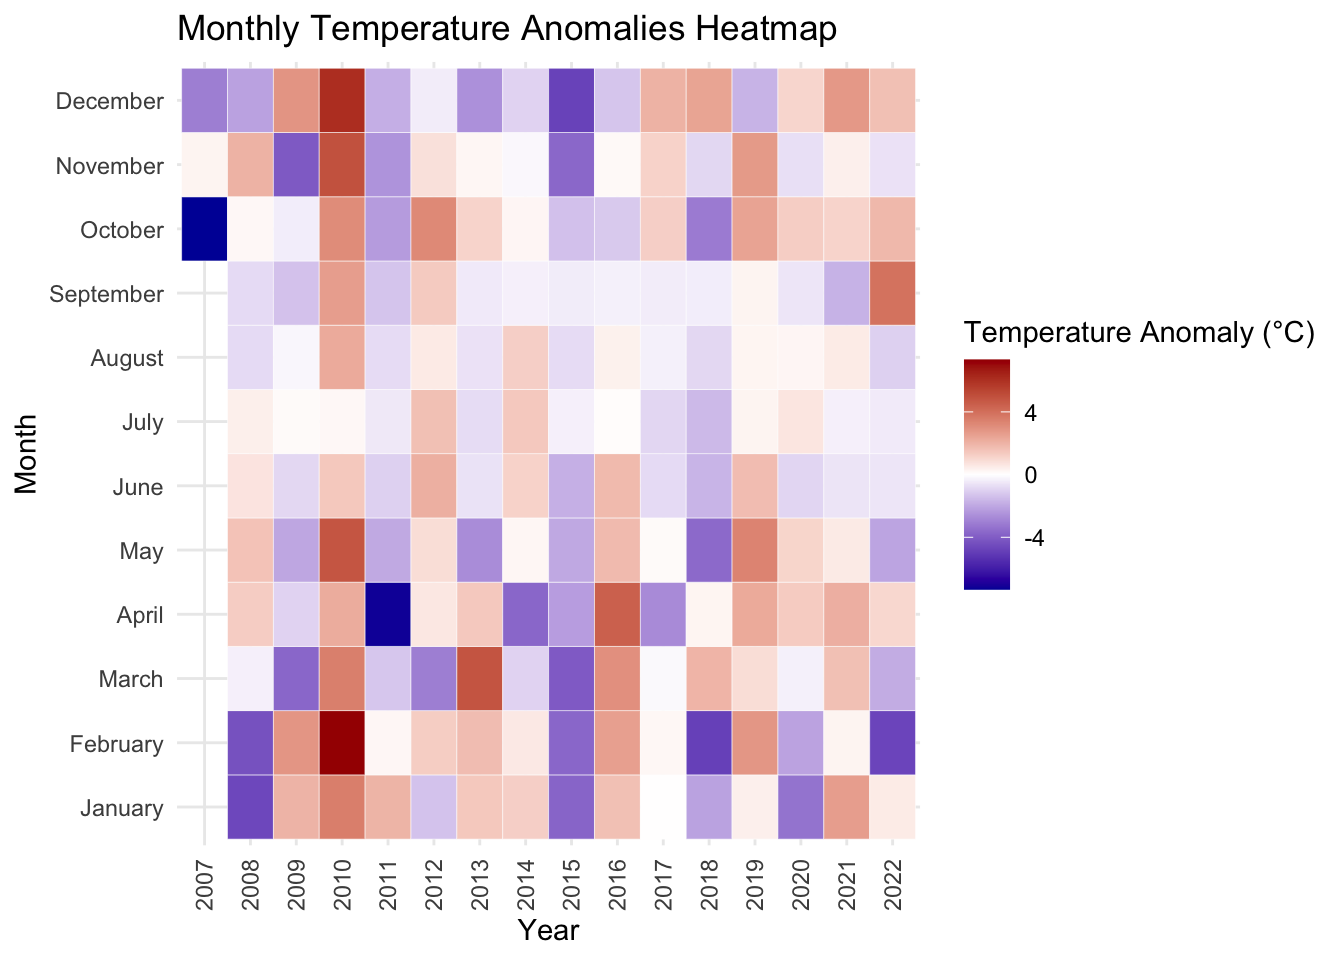
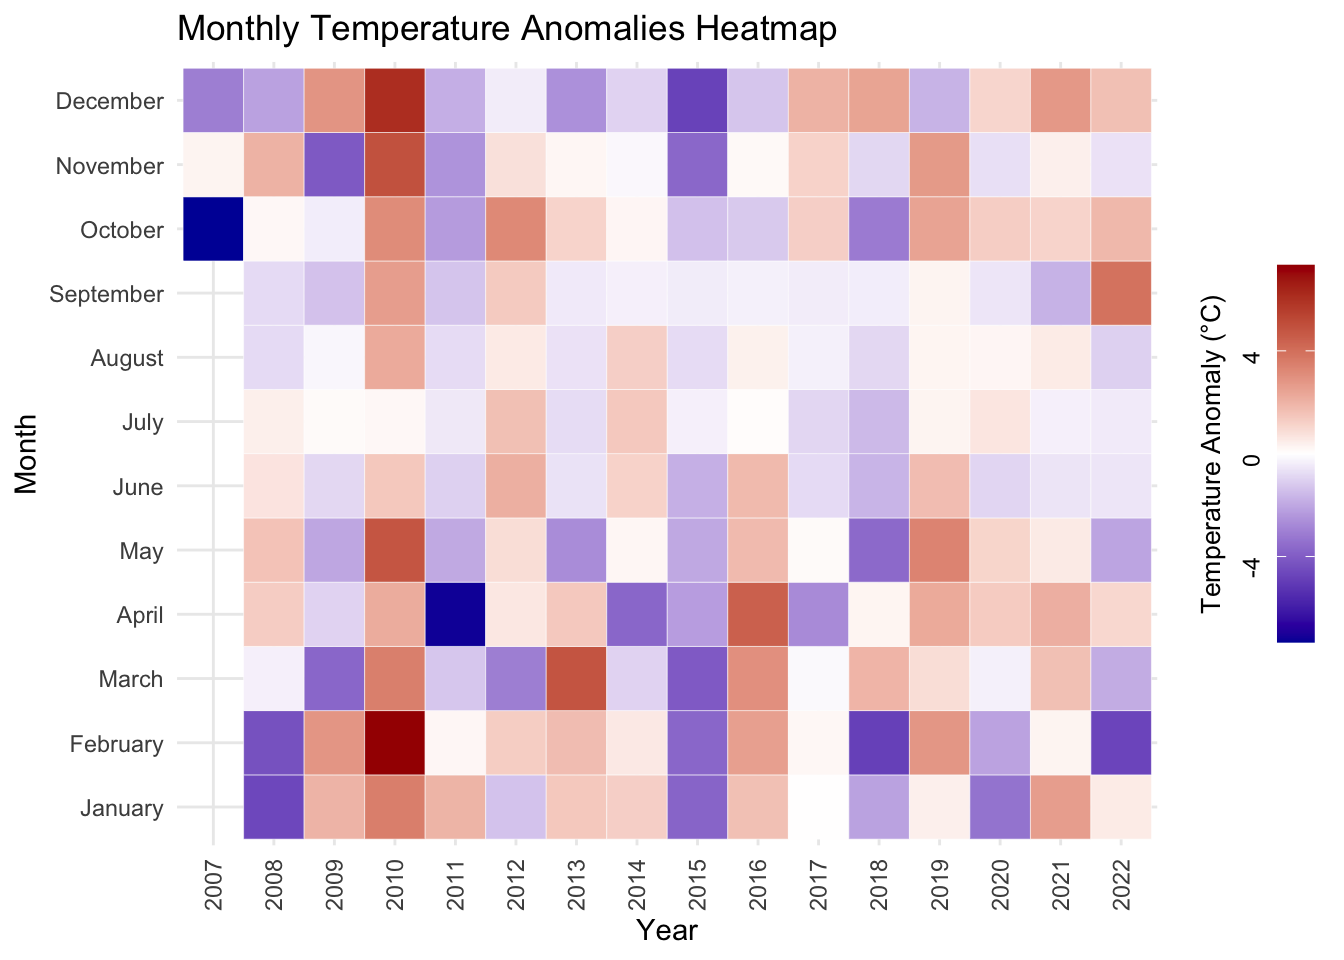
fixing anomaly plots to use the correct data

diff --git a/kangerluasunnguaq_climate.html b/kangerluasunnguaq_climate.html
@@ -240,7 +240,7 @@ Figure&nbsp;2: Mean air temperature (°C) pr month, based on data from 2007 to 2
 <span id="cb9-3"><a href="#cb9-3" aria-hidden="true" tabindex="-1"></a>  <span class="fu">geom_point</span>()<span class="sc">+</span></span>
 <span id="cb9-4"><a href="#cb9-4" aria-hidden="true" tabindex="-1"></a>  <span class="fu">scale_x_continuous</span>(<span class="at">breaks=</span><span class="fu">seq</span>(<span class="fu">min</span>(data_temp_monthly_mean_summer<span class="sc">$</span>year), <span class="fu">max</span>(data_temp_monthly_mean_summer<span class="sc">$</span>year), <span class="at">by =</span> <span class="dv">1</span>))<span class="sc">+</span></span>
 <span id="cb9-5"><a href="#cb9-5" aria-hidden="true" tabindex="-1"></a>  <span class="co">#geom_hline(yintercept=year_mean, linetype="dashed", color = "blue", size=0.5)+</span></span>
-<span id="cb9-6"><a href="#cb9-6" aria-hidden="true" tabindex="-1"></a>  <span class="fu">labs</span>(<span class="at">x =</span> <span class="st">"Month"</span>, <span class="at">y =</span> <span class="st">"Mean temperature (°C)"</span>, <span class="at">title =</span> <span class="st">"Mean temperature pr month"</span>)</span></code><button title="Copy to Clipboard" class="code-copy-button"><i class="bi"></i></button></pre></div>
+<span id="cb9-6"><a href="#cb9-6" aria-hidden="true" tabindex="-1"></a>  <span class="fu">labs</span>(<span class="at">x =</span> <span class="st">"Month"</span>, <span class="at">y =</span> <span class="st">"Mean temperature (°C)"</span>, <span class="at">title =</span> <span class="st">"Mean temperature pr summer month"</span>)</span></code><button title="Copy to Clipboard" class="code-copy-button"><i class="bi"></i></button></pre></div>
 <div class="cell-output-display">
 <div id="fig-month-summer-mean-temp" class="quarto-float quarto-figure quarto-figure-center anchored">
 <figure class="quarto-float quarto-float-fig figure">
@@ -316,7 +316,7 @@ Figure&nbsp;4: Mean yearly precipitation (mm) from 2008 to 2022. Data from 2007 
 <div class="cell">
 <div class="sourceCode cell-code" id="cb15"><pre class="sourceCode r code-with-copy"><code class="sourceCode r"><span id="cb15-1"><a href="#cb15-1" aria-hidden="true" tabindex="-1"></a><span class="fu">ggplot</span>(data_precip_month_mean, <span class="fu">aes</span>(<span class="at">y =</span> pre_mm_mean, <span class="at">x =</span> month))<span class="sc">+</span></span>
 <span id="cb15-2"><a href="#cb15-2" aria-hidden="true" tabindex="-1"></a>  <span class="fu">geom_smooth</span>(<span class="at">color =</span> <span class="st">"blue"</span>, <span class="at">se =</span> F)<span class="sc">+</span></span>
-<span id="cb15-3"><a href="#cb15-3" aria-hidden="true" tabindex="-1"></a>  <span class="fu">geom_bar</span>(<span class="at">stat =</span> <span class="st">"identity"</span>, <span class="at">fill =</span> <span class="st">"#6e6bc4"</span>)<span class="sc">+</span></span>
+<span id="cb15-3"><a href="#cb15-3" aria-hidden="true" tabindex="-1"></a>  <span class="fu">geom_bar</span>(<span class="at">stat =</span> <span class="st">"identity"</span>, <span class="at">fill =</span> <span class="st">"#6e6bc4"</span>, <span class="at">alpha =</span> <span class="fl">0.95</span>)<span class="sc">+</span></span>
 <span id="cb15-4"><a href="#cb15-4" aria-hidden="true" tabindex="-1"></a>  <span class="fu">scale_x_continuous</span>(<span class="at">breaks=</span><span class="fu">seq</span>(<span class="fu">min</span>(data_precip_month_mean<span class="sc">$</span>month), <span class="fu">max</span>(data_precip_month_mean<span class="sc">$</span>month), <span class="at">by =</span> <span class="dv">1</span>))<span class="sc">+</span></span>
 <span id="cb15-5"><a href="#cb15-5" aria-hidden="true" tabindex="-1"></a><span class="fu">geom_hline</span>(<span class="at">yintercept =</span> precip_month_mean, <span class="at">linetype=</span><span class="st">"dashed"</span>, <span class="at">color =</span> <span class="st">"blue"</span>, <span class="at">linewidth =</span><span class="fl">0.25</span>)</span></code><button title="Copy to Clipboard" class="code-copy-button"><i class="bi"></i></button></pre></div>
 <div class="cell-output-display">
@@ -478,11 +478,20 @@ Figure&nbsp;7: CAPTION
 <span id="cb31-3"><a href="#cb31-3" aria-hidden="true" tabindex="-1"></a>  <span class="fu">scale_fill_gradient2</span>(<span class="at">low =</span> <span class="st">"orange"</span>, <span class="at">high =</span> rain, <span class="at">mid =</span> <span class="st">"white"</span>, </span>
 <span id="cb31-4"><a href="#cb31-4" aria-hidden="true" tabindex="-1"></a>                       <span class="at">midpoint =</span> <span class="dv">0</span>, <span class="at">limit =</span> <span class="fu">c</span>(<span class="sc">-</span><span class="fu">max</span>(<span class="fu">abs</span>(monthly_prep_anomalies<span class="sc">$</span>prep_anomaly)), </span>
 <span id="cb31-5"><a href="#cb31-5" aria-hidden="true" tabindex="-1"></a>                                               <span class="fu">max</span>(<span class="fu">abs</span>(monthly_prep_anomalies<span class="sc">$</span>prep_anomaly))),</span>
-<span id="cb31-6"><a href="#cb31-6" aria-hidden="true" tabindex="-1"></a>                       <span class="at">space =</span> <span class="st">"Lab"</span>, <span class="at">name=</span><span class="st">"Precipitation</span><span class="sc">\n</span><span class="st">Anomaly (mm)"</span>) <span class="sc">+</span></span>
+<span id="cb31-6"><a href="#cb31-6" aria-hidden="true" tabindex="-1"></a>                       <span class="at">space =</span> <span class="st">"Lab"</span>, <span class="at">name=</span><span class="st">"Precipitation Anomaly (mm)"</span>) <span class="sc">+</span></span>
 <span id="cb31-7"><a href="#cb31-7" aria-hidden="true" tabindex="-1"></a>  <span class="fu">labs</span>(<span class="at">x =</span> <span class="st">"Year"</span>, <span class="at">y =</span> <span class="st">"Month"</span>, <span class="at">title =</span> <span class="st">"Monthly Precipitation Anomalies Heatmap"</span>) <span class="sc">+</span></span>
 <span id="cb31-8"><a href="#cb31-8" aria-hidden="true" tabindex="-1"></a>  <span class="fu">scale_y_discrete</span>(<span class="at">labels =</span> month.name) <span class="sc">+</span> <span class="co"># Use full month names on y-axis</span></span>
 <span id="cb31-9"><a href="#cb31-9" aria-hidden="true" tabindex="-1"></a>  <span class="fu">theme_minimal</span>() <span class="sc">+</span></span>
-<span id="cb31-10"><a href="#cb31-10" aria-hidden="true" tabindex="-1"></a>  <span class="fu">theme</span>(<span class="at">axis.text.x =</span> <span class="fu">element_text</span>(<span class="at">angle =</span> <span class="dv">90</span>, <span class="at">vjust =</span> <span class="fl">0.5</span>, <span class="at">hjust=</span><span class="dv">1</span>))</span></code><button title="Copy to Clipboard" class="code-copy-button"><i class="bi"></i></button></pre></div>
+<span id="cb31-10"><a href="#cb31-10" aria-hidden="true" tabindex="-1"></a>  <span class="fu">theme</span>(</span>
+<span id="cb31-11"><a href="#cb31-11" aria-hidden="true" tabindex="-1"></a>    <span class="at">axis.text.x =</span> <span class="fu">element_text</span>(<span class="at">angle =</span> <span class="dv">90</span>, <span class="at">vjust =</span> <span class="fl">0.5</span>, <span class="at">hjust =</span> <span class="dv">1</span>),</span>
+<span id="cb31-12"><a href="#cb31-12" aria-hidden="true" tabindex="-1"></a>    <span class="at">legend.position =</span> <span class="st">"right"</span>,</span>
+<span id="cb31-13"><a href="#cb31-13" aria-hidden="true" tabindex="-1"></a>    <span class="at">legend.direction =</span> <span class="st">"vertical"</span>,</span>
+<span id="cb31-14"><a href="#cb31-14" aria-hidden="true" tabindex="-1"></a>    <span class="at">legend.title =</span> <span class="fu">element_text</span>(<span class="at">angle =</span> <span class="dv">90</span>, <span class="at">hjust =</span> <span class="fl">0.5</span>, <span class="at">vjust =</span> <span class="dv">1</span>, <span class="at">size =</span> <span class="dv">10</span>),</span>
+<span id="cb31-15"><a href="#cb31-15" aria-hidden="true" tabindex="-1"></a>    <span class="at">legend.text =</span> <span class="fu">element_text</span>(<span class="at">angle =</span> <span class="dv">90</span>, <span class="at">hjust =</span> <span class="dv">1</span>),</span>
+<span id="cb31-16"><a href="#cb31-16" aria-hidden="true" tabindex="-1"></a>    <span class="at">legend.key.height =</span> <span class="fu">unit</span>(<span class="dv">1</span>, <span class="st">"cm"</span>),</span>
+<span id="cb31-17"><a href="#cb31-17" aria-hidden="true" tabindex="-1"></a>    <span class="at">legend.key.width =</span> <span class="fu">unit</span>(<span class="fl">0.5</span>, <span class="st">"cm"</span>),</span>
+<span id="cb31-18"><a href="#cb31-18" aria-hidden="true" tabindex="-1"></a>    <span class="at">legend.box.just =</span> <span class="st">"bottom"</span>) <span class="sc">+</span></span>
+<span id="cb31-19"><a href="#cb31-19" aria-hidden="true" tabindex="-1"></a> <span class="fu">guides</span>(<span class="at">fill =</span> <span class="fu">guide_colorbar</span>(<span class="at">title.position =</span> <span class="st">"left"</span>, <span class="at">label.position =</span> <span class="st">"left"</span>))</span></code><button title="Copy to Clipboard" class="code-copy-button"><i class="bi"></i></button></pre></div>
 <div class="cell-output-display">
 <div id="fig-monthly-prep-anomaly" class="quarto-float quarto-figure quarto-figure-center anchored">
 <figure class="quarto-float quarto-float-fig figure">
@@ -542,21 +551,42 @@ Figure&nbsp;9: CAPTION
 <span id="cb37-3"><a href="#cb37-3" aria-hidden="true" tabindex="-1"></a>  <span class="fu">summarise</span>(<span class="at">overall_monthly_mean =</span> <span class="fu">mean</span>(monthly_mean, <span class="at">na.rm =</span> <span class="cn">TRUE</span>)) <span class="sc">|&gt;</span> </span>
 <span id="cb37-4"><a href="#cb37-4" aria-hidden="true" tabindex="-1"></a>  <span class="fu">ungroup</span>()</span>
 <span id="cb37-5"><a href="#cb37-5" aria-hidden="true" tabindex="-1"></a></span>
-<span id="cb37-6"><a href="#cb37-6" aria-hidden="true" tabindex="-1"></a>monthly_anomalies <span class="ot">&lt;-</span> data_temp_monthly_mean <span class="sc">|&gt;</span> </span>
+<span id="cb37-6"><a href="#cb37-6" aria-hidden="true" tabindex="-1"></a>data_temp_anomaly <span class="ot">&lt;-</span> data_temp_monthly_mean <span class="sc">|&gt;</span> </span>
 <span id="cb37-7"><a href="#cb37-7" aria-hidden="true" tabindex="-1"></a>  <span class="fu">left_join</span>(data_temp_monthly_mean_overall, <span class="at">by =</span> <span class="st">"month"</span>) <span class="sc">|&gt;</span> </span>
 <span id="cb37-8"><a href="#cb37-8" aria-hidden="true" tabindex="-1"></a>  <span class="fu">mutate</span>(<span class="at">temperature_anomaly =</span> monthly_mean <span class="sc">-</span> overall_monthly_mean)</span></code><button title="Copy to Clipboard" class="code-copy-button"><i class="bi"></i></button></pre></div>
 </div>
 <div class="cell">
-<div class="sourceCode cell-code" id="cb38"><pre class="sourceCode r code-with-copy"><code class="sourceCode r"><span id="cb38-1"><a href="#cb38-1" aria-hidden="true" tabindex="-1"></a><span class="fu">ggplot</span>(monthly_anomalies, <span class="fu">aes</span>(<span class="at">x =</span> <span class="fu">factor</span>(year), <span class="at">y =</span> <span class="fu">factor</span>(month), <span class="at">fill =</span> temperature_anomaly)) <span class="sc">+</span></span>
-<span id="cb38-2"><a href="#cb38-2" aria-hidden="true" tabindex="-1"></a>  <span class="fu">geom_tile</span>(<span class="at">color =</span> <span class="st">"white"</span>) <span class="sc">+</span></span>
-<span id="cb38-3"><a href="#cb38-3" aria-hidden="true" tabindex="-1"></a>  <span class="fu">scale_fill_gradient2</span>(<span class="at">low =</span> rain, <span class="at">high =</span> warm, <span class="at">mid =</span> <span class="st">"white"</span>, </span>
-<span id="cb38-4"><a href="#cb38-4" aria-hidden="true" tabindex="-1"></a>                       <span class="at">midpoint =</span> <span class="dv">0</span>, <span class="at">limit =</span> <span class="fu">c</span>(<span class="sc">-</span><span class="fu">max</span>(<span class="fu">abs</span>(monthly_anomalies<span class="sc">$</span>temperature_anomaly)), </span>
-<span id="cb38-5"><a href="#cb38-5" aria-hidden="true" tabindex="-1"></a>                                               <span class="fu">max</span>(<span class="fu">abs</span>(monthly_anomalies<span class="sc">$</span>temperature_anomaly))),</span>
-<span id="cb38-6"><a href="#cb38-6" aria-hidden="true" tabindex="-1"></a>                       <span class="at">space =</span> <span class="st">"Lab"</span>, <span class="at">name=</span><span class="st">"Temperature Anomaly (°C)"</span>) <span class="sc">+</span></span>
-<span id="cb38-7"><a href="#cb38-7" aria-hidden="true" tabindex="-1"></a>  <span class="fu">labs</span>(<span class="at">x =</span> <span class="st">"Year"</span>, <span class="at">y =</span> <span class="st">"Month"</span>, <span class="at">title =</span> <span class="st">"Monthly Temperature Anomalies Heatmap"</span>) <span class="sc">+</span></span>
-<span id="cb38-8"><a href="#cb38-8" aria-hidden="true" tabindex="-1"></a>  <span class="fu">scale_y_discrete</span>(<span class="at">labels =</span> month.name) <span class="sc">+</span> <span class="co"># Use full month names on y-axis</span></span>
-<span id="cb38-9"><a href="#cb38-9" aria-hidden="true" tabindex="-1"></a>  <span class="fu">theme_minimal</span>() <span class="sc">+</span></span>
-<span id="cb38-10"><a href="#cb38-10" aria-hidden="true" tabindex="-1"></a>  <span class="fu">theme</span>(<span class="at">axis.text.x =</span> <span class="fu">element_text</span>(<span class="at">angle =</span> <span class="dv">90</span>, <span class="at">vjust =</span> <span class="fl">0.5</span>, <span class="at">hjust=</span><span class="dv">1</span>))</span></code><button title="Copy to Clipboard" class="code-copy-button"><i class="bi"></i></button></pre></div>
+<div class="sourceCode cell-code" id="cb38"><pre class="sourceCode r code-with-copy"><code class="sourceCode r"><span id="cb38-1"><a href="#cb38-1" aria-hidden="true" tabindex="-1"></a><span class="co"># ggplot(data_temp_anomaly, aes(x = factor(year), y = factor(month), fill = temperature_anomaly)) +</span></span>
+<span id="cb38-2"><a href="#cb38-2" aria-hidden="true" tabindex="-1"></a><span class="co">#   geom_tile(color = "white") +</span></span>
+<span id="cb38-3"><a href="#cb38-3" aria-hidden="true" tabindex="-1"></a><span class="co">#   scale_fill_gradient2(low = rain, high = warm, mid = "white",</span></span>
+<span id="cb38-4"><a href="#cb38-4" aria-hidden="true" tabindex="-1"></a><span class="co">#                        midpoint = 0, limit = c(-max(abs(data_temp_anomaly$temperature_anomaly)),</span></span>
+<span id="cb38-5"><a href="#cb38-5" aria-hidden="true" tabindex="-1"></a><span class="co">#                                                max(abs(data_temp_anomaly$temperature_anomaly))),</span></span>
+<span id="cb38-6"><a href="#cb38-6" aria-hidden="true" tabindex="-1"></a><span class="co">#                        space = "Lab", name="Temperature Anomaly (°C)") +</span></span>
+<span id="cb38-7"><a href="#cb38-7" aria-hidden="true" tabindex="-1"></a><span class="co">#   labs(x = "Year", y = "Month", title = "Monthly Temperature Anomalies Heatmap") +</span></span>
+<span id="cb38-8"><a href="#cb38-8" aria-hidden="true" tabindex="-1"></a><span class="co">#   scale_y_discrete(labels = month.name) + # Use full month names on y-axis</span></span>
+<span id="cb38-9"><a href="#cb38-9" aria-hidden="true" tabindex="-1"></a><span class="co">#   theme_minimal() +</span></span>
+<span id="cb38-10"><a href="#cb38-10" aria-hidden="true" tabindex="-1"></a><span class="co">#   theme(axis.text.x = element_text(angle = 90, vjust = 0.5, hjust=1))</span></span>
+<span id="cb38-11"><a href="#cb38-11" aria-hidden="true" tabindex="-1"></a></span>
+<span id="cb38-12"><a href="#cb38-12" aria-hidden="true" tabindex="-1"></a></span>
+<span id="cb38-13"><a href="#cb38-13" aria-hidden="true" tabindex="-1"></a><span class="fu">ggplot</span>(data_temp_anomaly, <span class="fu">aes</span>(<span class="at">x =</span> <span class="fu">factor</span>(year), <span class="at">y =</span> <span class="fu">factor</span>(month), <span class="at">fill =</span> temperature_anomaly)) <span class="sc">+</span></span>
+<span id="cb38-14"><a href="#cb38-14" aria-hidden="true" tabindex="-1"></a>  <span class="fu">geom_tile</span>(<span class="at">color =</span> <span class="st">"white"</span>) <span class="sc">+</span></span>
+<span id="cb38-15"><a href="#cb38-15" aria-hidden="true" tabindex="-1"></a>  <span class="fu">scale_fill_gradient2</span>(<span class="at">low =</span> rain, <span class="at">high =</span> warm, <span class="at">mid =</span> <span class="st">"white"</span>, </span>
+<span id="cb38-16"><a href="#cb38-16" aria-hidden="true" tabindex="-1"></a>                       <span class="at">midpoint =</span> <span class="dv">0</span>, <span class="at">limit =</span> <span class="fu">c</span>(<span class="sc">-</span><span class="fu">max</span>(<span class="fu">abs</span>(data_temp_anomaly<span class="sc">$</span>temperature_anomaly)), </span>
+<span id="cb38-17"><a href="#cb38-17" aria-hidden="true" tabindex="-1"></a>                                               <span class="fu">max</span>(<span class="fu">abs</span>(data_temp_anomaly<span class="sc">$</span>temperature_anomaly))),</span>
+<span id="cb38-18"><a href="#cb38-18" aria-hidden="true" tabindex="-1"></a>                       <span class="at">space =</span> <span class="st">"Lab"</span>, <span class="at">name=</span><span class="st">"Temperature Anomaly (°C)"</span>) <span class="sc">+</span></span>
+<span id="cb38-19"><a href="#cb38-19" aria-hidden="true" tabindex="-1"></a>  <span class="fu">labs</span>(<span class="at">x =</span> <span class="st">"Year"</span>, <span class="at">y =</span> <span class="st">"Month"</span>, <span class="at">title =</span> <span class="st">"Monthly Temperature Anomalies Heatmap"</span>) <span class="sc">+</span></span>
+<span id="cb38-20"><a href="#cb38-20" aria-hidden="true" tabindex="-1"></a>  <span class="fu">scale_y_discrete</span>(<span class="at">labels =</span> month.name) <span class="sc">+</span></span>
+<span id="cb38-21"><a href="#cb38-21" aria-hidden="true" tabindex="-1"></a>  <span class="fu">theme_minimal</span>() <span class="sc">+</span></span>
+<span id="cb38-22"><a href="#cb38-22" aria-hidden="true" tabindex="-1"></a>  <span class="fu">theme</span>(</span>
+<span id="cb38-23"><a href="#cb38-23" aria-hidden="true" tabindex="-1"></a>    <span class="at">axis.text.x =</span> <span class="fu">element_text</span>(<span class="at">angle =</span> <span class="dv">90</span>, <span class="at">vjust =</span> <span class="fl">0.5</span>, <span class="at">hjust =</span> <span class="dv">1</span>),</span>
+<span id="cb38-24"><a href="#cb38-24" aria-hidden="true" tabindex="-1"></a>    <span class="at">legend.position =</span> <span class="st">"right"</span>,</span>
+<span id="cb38-25"><a href="#cb38-25" aria-hidden="true" tabindex="-1"></a>    <span class="at">legend.direction =</span> <span class="st">"vertical"</span>,</span>
+<span id="cb38-26"><a href="#cb38-26" aria-hidden="true" tabindex="-1"></a>    <span class="at">legend.title =</span> <span class="fu">element_text</span>(<span class="at">angle =</span> <span class="dv">90</span>, <span class="at">hjust =</span> <span class="fl">0.5</span>, <span class="at">vjust =</span> <span class="dv">1</span>, <span class="at">size =</span> <span class="dv">10</span>),</span>
+<span id="cb38-27"><a href="#cb38-27" aria-hidden="true" tabindex="-1"></a>    <span class="at">legend.text =</span> <span class="fu">element_text</span>(<span class="at">angle =</span> <span class="dv">90</span>, <span class="at">hjust =</span> <span class="dv">1</span>),</span>
+<span id="cb38-28"><a href="#cb38-28" aria-hidden="true" tabindex="-1"></a>    <span class="at">legend.key.height =</span> <span class="fu">unit</span>(<span class="dv">1</span>, <span class="st">"cm"</span>),</span>
+<span id="cb38-29"><a href="#cb38-29" aria-hidden="true" tabindex="-1"></a>    <span class="at">legend.key.width =</span> <span class="fu">unit</span>(<span class="fl">0.5</span>, <span class="st">"cm"</span>),</span>
+<span id="cb38-30"><a href="#cb38-30" aria-hidden="true" tabindex="-1"></a>    <span class="at">legend.box.just =</span> <span class="st">"bottom"</span>) <span class="sc">+</span></span>
+<span id="cb38-31"><a href="#cb38-31" aria-hidden="true" tabindex="-1"></a> <span class="fu">guides</span>(<span class="at">fill =</span> <span class="fu">guide_colorbar</span>(<span class="at">title.position =</span> <span class="st">"left"</span>, <span class="at">label.position =</span> <span class="st">"left"</span>))</span></code><button title="Copy to Clipboard" class="code-copy-button"><i class="bi"></i></button></pre></div>
 <div class="cell-output-display">
 <div id="fig-monthly-temp-anomaly" class="quarto-float quarto-figure quarto-figure-center anchored">
 <figure class="quarto-float quarto-float-fig figure">
@@ -571,13 +601,13 @@ Figure&nbsp;10: CAPTION
 </div>
 </div>
 <div class="cell">
-<div class="sourceCode cell-code" id="cb39"><pre class="sourceCode r code-with-copy"><code class="sourceCode r"><span id="cb39-1"><a href="#cb39-1" aria-hidden="true" tabindex="-1"></a><span class="fu">ggplot</span>(monthly_anomalies, <span class="fu">aes</span>(<span class="at">x =</span> year, <span class="at">y =</span> temperature_anomaly, <span class="at">color =</span> <span class="fu">as.factor</span>(month))) <span class="sc">+</span></span>
+<div class="sourceCode cell-code" id="cb39"><pre class="sourceCode r code-with-copy"><code class="sourceCode r"><span id="cb39-1"><a href="#cb39-1" aria-hidden="true" tabindex="-1"></a><span class="fu">ggplot</span>(data_temp_anomaly, <span class="fu">aes</span>(<span class="at">x =</span> year, <span class="at">y =</span> temperature_anomaly, <span class="at">color =</span> <span class="fu">as.factor</span>(month))) <span class="sc">+</span></span>
 <span id="cb39-2"><a href="#cb39-2" aria-hidden="true" tabindex="-1"></a>  <span class="fu">geom_point</span>(<span class="fu">aes</span>(<span class="at">color =</span> <span class="fu">factor</span>(month))) <span class="sc">+</span>  <span class="co"># Color points by month</span></span>
 <span id="cb39-3"><a href="#cb39-3" aria-hidden="true" tabindex="-1"></a>  <span class="fu">geom_smooth</span>(<span class="at">method =</span> lm, <span class="at">se =</span> F)<span class="sc">+</span></span>
 <span id="cb39-4"><a href="#cb39-4" aria-hidden="true" tabindex="-1"></a>  <span class="co">#geom_smooth(method = "lm", se = FALSE, size = 0.4, color = "black") +  # Single trend line in black</span></span>
 <span id="cb39-5"><a href="#cb39-5" aria-hidden="true" tabindex="-1"></a>  <span class="fu">labs</span>(<span class="at">x =</span> <span class="st">"Year"</span>, <span class="at">y =</span> <span class="st">"Temperature Anomaly (°C)"</span>, <span class="at">color =</span> <span class="st">"Month"</span>) <span class="sc">+</span></span>
 <span id="cb39-6"><a href="#cb39-6" aria-hidden="true" tabindex="-1"></a>  <span class="fu">theme_minimal</span>()<span class="sc">+</span></span>
-<span id="cb39-7"><a href="#cb39-7" aria-hidden="true" tabindex="-1"></a>  <span class="fu">scale_x_continuous</span>(<span class="at">breaks=</span><span class="fu">seq</span>(<span class="fu">min</span>(monthly_anomalies<span class="sc">$</span>year), <span class="fu">max</span>(monthly_anomalies<span class="sc">$</span>year), <span class="at">by =</span> <span class="dv">1</span>))<span class="sc">+</span></span>
+<span id="cb39-7"><a href="#cb39-7" aria-hidden="true" tabindex="-1"></a>  <span class="fu">scale_x_continuous</span>(<span class="at">breaks=</span><span class="fu">seq</span>(<span class="fu">min</span>(data_temp_anomaly<span class="sc">$</span>year), <span class="fu">max</span>(data_temp_anomaly<span class="sc">$</span>year), <span class="at">by =</span> <span class="dv">1</span>))<span class="sc">+</span></span>
 <span id="cb39-8"><a href="#cb39-8" aria-hidden="true" tabindex="-1"></a>  <span class="fu">theme</span>(<span class="at">axis.text.x =</span> <span class="fu">element_text</span>(<span class="at">angle =</span> <span class="sc">-</span><span class="dv">45</span>,  <span class="at">hjust=</span><span class="sc">-</span><span class="dv">0</span>))</span></code><button title="Copy to Clipboard" class="code-copy-button"><i class="bi"></i></button></pre></div>
 <div class="cell-output cell-output-stderr">
 <pre><code>`geom_smooth()` using formula = 'y ~ x'</code></pre>
